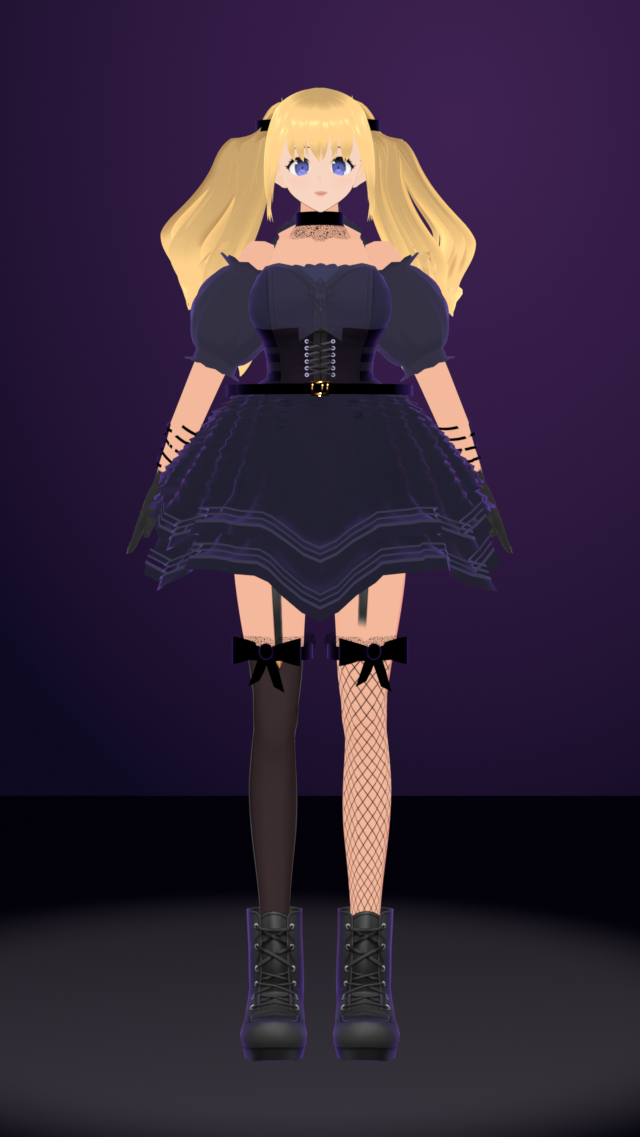
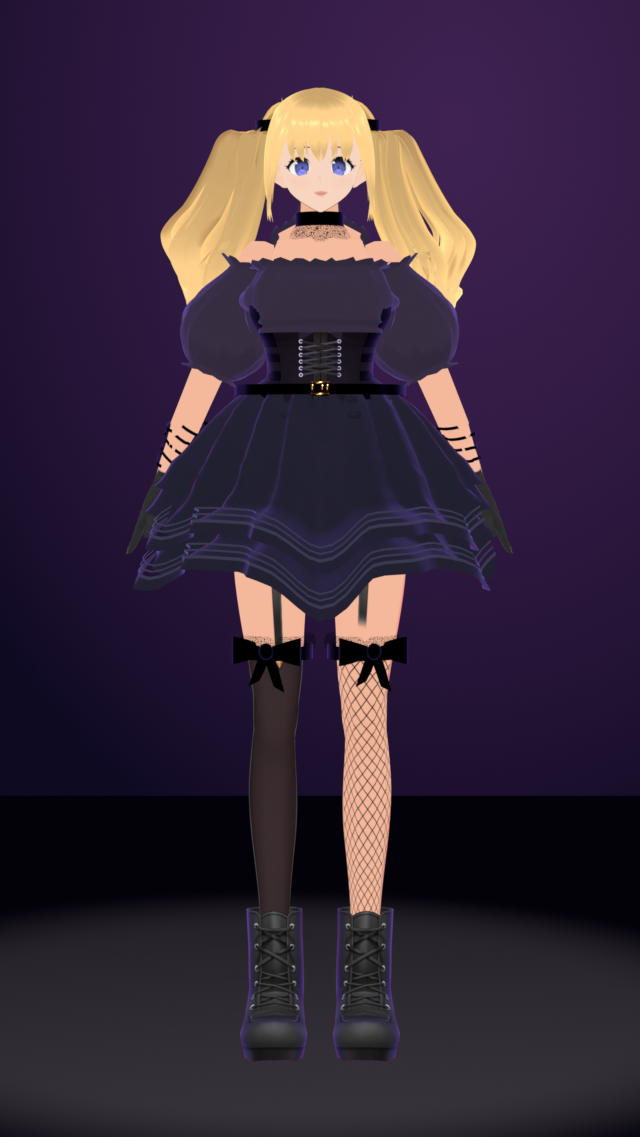
Goth agent: fitted gathered blouse, longer puff sleeves, rounded pleats
- A fitted blouse is built over the upper torso (per-height, per-angle max
  radius, so it bridges the bust), straight ruffled off-shoulder neckline;
  VRoid's corset sweetheart edge, busk and ornament no longer show. The
  leftover VRoid back panel is recoloured to the same navy.
- Sleeves run to just above the elbow, fullest two-thirds down.
- Tails rise out of the ties before falling.
- Skirt: 16 rounded pleats on a finer mesh; the old knife-pleat sawtooth
  showed as teeth, too few vertices aliased the folds, out-of-step layers
  crossed, and a stepped radius profile showed as horizontal ridges.
- Corset eyelets in two spaced columns.

Claude-Session: https://claude.ai/code/session_011M9r3rTGgXhm4baeKDbpr3

diff --git a/build/tools/blender-agent-refine.py b/build/tools/blender-agent-refine.py
@@ -21,28 +21,31 @@ p = argparse.ArgumentParser()
 p.add_argument('--blend', required=True); p.add_argument('--out', required=True)
 p.add_argument('--neckline', type=float, default=1.285)     # off-shoulder line on the torso (rest pose, m)
 p.add_argument('--sleeve-start', type=float, default=0.03)  # along the upper arm from the shoulder joint
-p.add_argument('--sleeve-end', type=float, default=0.20)
+p.add_argument('--sleeve-end', type=float, default=0.212)
 p.add_argument('--puff', type=float, default=0.80)        # (VRoid-sleeve mode only)
-p.add_argument('--puff-r', type=float, default=0.030)     # own sleeve: extra radius at the middle of the puff
+p.add_argument('--puff-r', type=float, default=0.040)     # own sleeve: extra radius at the middle of the puff
 p.add_argument('--vroid-sleeves', action='store_true')     # keep and puff VRoid's sleeve instead of building one
 p.add_argument('--underbust', type=float, default=1.2)      # corset above this height becomes a navy bodice (0 = keep)
 p.add_argument('--skirt-len', type=float, default=0.30)     # bottom tier, between the points
 p.add_argument('--skirt-points', type=float, default=0.22)  # handkerchief point depth (fraction)
 p.add_argument('--skirt-hem', type=float, default=0.30)
-p.add_argument('--pleats', type=int, default=26); p.add_argument('--pleat-depth', type=float, default=0.038)
+p.add_argument('--pleats', type=int, default=16); p.add_argument('--pleat-depth', type=float, default=0.038)
 p.add_argument('--cloth-toony', type=float, default=0.5)
 p.add_argument('--rim', type=float, default=0.55)          # strength of the built-in rim glow (0 = VRoid's)
 p.add_argument('--hair-shade', type=int, nargs=3, default=(150, 96, 44))   # sRGB shade colour for the hair   # VRoid cloth is 0.95 (hard cel); the reference is soft
 p.add_argument('--fishnet-cell', type=float, default=34); p.add_argument('--fishnet-width', type=float, default=3.2)   # texels at 2048
+p.add_argument('--blouse', type=int, default=1)            # fitted gathered blouse over the upper torso, straight neckline
+p.add_argument('--neckline-drop', type=float, default=0.034)   # neckline below the shoulder joints
 p.add_argument('--piping', type=int, nargs=3, default=(58, 57, 80))   # sRGB piping colour
 p.add_argument('--ruffle', type=float, default=0.022)     # hem frill depth under each skirt layer
-p.add_argument('--skirt-cuts', type=int, default=3); p.add_argument('--skirt-flare', type=float, default=0.8)     # bottom-tier hem radius
+p.add_argument('--skirt-cuts', type=int, default=5); p.add_argument('--skirt-flare', type=float, default=0.8)     # bottom-tier hem radius
 p.add_argument('--tail-len', type=float, default=0.38)      # tie to tip, metres (--tail-tip overrides)
 p.add_argument('--tail-tip', type=float, default=0.0)
 p.add_argument('--tail-root', type=float, default=0.0);   # 0 = measure (top of the tail strands - 4 cm)
 p.add_argument('--tail-spread', type=float, default=0.095)  # how far each tail arcs out from its tie
 p.add_argument('--tail-width', type=float, default=1.4)    # strand cross-section scale
-p.add_argument('--tail-flick', type=float, default=0.03)   # outward flick at the tips
+p.add_argument('--tail-flick', type=float, default=0.03)
+p.add_argument('--tail-lift', type=float, default=0.035)   # how far the tails rise out of the ties before falling   # outward flick at the tips
 p.add_argument('--tail-fan', type=int, default=1)          # add two copies per strand with other spreads/lengths
 p.add_argument('--bangs', type=float, default=1.10)         # fringe length factor, from its hairline
 p.add_argument('--sidelocks', type=float, default=1.9)      # length factor for the outer fringe pieces (face-framing locks)
@@ -203,7 +206,7 @@ if a.underbust:
     src = me.materials[min(CORSET)]; bod = src.copy(); bod.name = 'Bodice navy'
     img = lit_image(bod).copy(); img.name = 'Bodice flat'
     fpx = np.array(img.pixels[:], dtype=np.float32).reshape(-1, 4); h_, s_, v_ = rgb_to_hsv(fpx[:, :3])
-    v_ = v_ * 0.25 + 0.75 * v_[fpx[:, 3] > 0.5].mean(); fpx[:, :3] = hsv_to_rgb(h_, s_ * 0.3, v_); img.pixels[:] = fpx.ravel(); img.pack()
+    v_ = v_ * 0.08 + 0.92 * v_[fpx[:, 3] > 0.5].mean(); fpx[:, :3] = hsv_to_rgb(h_, s_ * 0.3, v_)   # soft blouse: drop the corset seams; img.pixels[:] = fpx.ravel(); img.pack()
     old_img = lit_image(src)
     for n_ in bod.node_tree.nodes:
         if n_.type == 'TEX_IMAGE' and n_.image == old_img: n_.image = img
@@ -215,7 +218,7 @@ if a.underbust:
     for f in bm.faces:
         if f.material_index in CORSET and f.calc_center_median().z > a.underbust: f.material_index = BOD_I; nb += 1
     print('BODICE', nb, 'faces navy above', a.underbust)
-    top_e = [e for e in bm.edges if e.is_boundary and e.link_faces and e.link_faces[0].material_index == BOD_I and min(v.co.z for v in e.verts) > 1.24 + DZ]
+    top_e = [] if a.blouse else [e for e in bm.edges if e.is_boundary and e.link_faces and e.link_faces[0].material_index == BOD_I and min(v.co.z for v in e.verts) > 1.24 + DZ]
     if top_e:
         ret = bmesh.ops.extrude_edge_only(bm, edges=top_e); nv = [g for g in ret['geom'] if isinstance(g, bmesh.types.BMVert)]
         for i, v in enumerate(sorted(nv, key=lambda v: v.co.x)):
@@ -313,14 +316,21 @@ def mid_texel(mat):
     y, x = np.unravel_index(np.argmin(lum), lum.shape); return ((x + 0.5) / W, (y + 0.5) / H)
 SLEEVE_MAT = me.materials[BOD_I] if a.underbust else me.materials[min(BLOUSE)]
 SLEEVE_UV = mid_texel(SLEEVE_MAT)
+if not a.vroid_sleeves and a.underbust:   # what is left of VRoid's blouse is its upper-back panel: make it the blouse navy
+    nbp = 0
+    for f in bm.faces:
+        if f.material_index in BLOUSE:
+            f.material_index = BOD_I; nbp += 1
+            for l in f.loops: l[uvl].uv = SLEEVE_UV
+    print('BACK PANEL', nbp, 'faces -> blouse navy')
 for side, tag, centre_at in OWN_SLEEVES:
     sb = bmesh.new(); s0, s1 = X0 + a.sleeve_start, X0 + a.sleeve_end; NS, MS = 40, 22; rows_ = []
     for j in range(MS + 1):
         u = j / MS; x = s0 + (s1 - s0) * u; cy2, cz2 = centre_at(x); row = []
-        bulge = math.sin(math.pi * min(1.0, u / 0.9)) ** 0.7
+        bulge = math.sin(math.pi * u ** 1.35) ** 0.8                       # fullest two-thirds down, like a gathered sleeve
         for i in range(NS):
             th = -math.pi + 2 * math.pi * i / NS
-            r = (0.042 if u < 0.9 else 0.039) + a.puff_r * bulge
+            r = 0.040 + a.puff_r * bulge
             r *= 1 + 0.06 * math.sin(14 * th + 0.4 * j) * bulge ** 0.5          # gathers
             row.append(sb.verts.new((side * x, cy2 + r * math.cos(th), cz2 + r * math.sin(th))))
         rows_.append(row)
@@ -384,8 +394,8 @@ for i in range(21):
     if prof[i] is None: prof[i] = prof[i - 1]
 r0 = prof[0]
 def pleat(th, phase):          # knife pleat: slow rise, sharp fold, in [-0.5, 0.5]
-    f = ((a.pleats * th + phase) / (2 * math.pi)) % 1.0
-    return (f / 0.72 if f < 0.72 else (1 - f) / 0.28) - 0.5
+    f = ((a.pleats * th + phase) / (2 * math.pi)) % 1.0     # rounded pleats: a sawtooth shows as teeth on the silhouette
+    return 0.5 * math.sin(2 * math.pi * f) + 0.12 * math.sin(4 * math.pi * f)
 def remap(verts, lenfac, roff, phase=0.0):
     for v in verts:
         s = (ztop - v.co.z) / (ztop - zbot); s = min(1, max(0, s))
@@ -394,7 +404,7 @@ def remap(verts, lenfac, roff, phase=0.0):
         depth = s * L * lenfac
         target = r0 + (a.skirt_hem - r0) * min(1.2, depth / a.skirt_len) ** a.skirt_flare + roff * s ** 0.6
         target += a.pleat_depth * (0.25 + 0.75 * s) * pleat(th, phase)
-        k = target / prof[min(20, int(20 * s))]
+        k = target / float(np.interp(s * 20, np.arange(21), prof))   # interpolated: a stepped profile shows as ridges once subdivided
         v.co.x *= k; v.co.y = cy + (v.co.y - cy) * k; v.co.z = ztop - depth
 tiers = [(sk_verts, 1.0, 0.0)]
 for lenfac, roff in ((0.80, 0.014),):
@@ -404,7 +414,7 @@ hems = []
 for vs, lenfac, roff in tiers:
     vset = set(vs); spre = {v: (ztop - v.co.z) / (ztop - zbot) for v in vs}
     hems.append([e for e in bm.edges if e.is_boundary and all(v in vset and spre[v] > 0.85 for v in e.verts)])
-for ti, (vs, lenfac, roff) in enumerate(tiers): remap(vs, lenfac, roff, phase=ti * 0.5)
+for ti, (vs, lenfac, roff) in enumerate(tiers): remap(vs, lenfac, roff, phase=0.0)   # pleats in step, so the outer layer nests over the inner
 # plain fabric: a flattened copy of the skirt texture (drops the buttons and panel seams)
 skm = me.materials[min(SKIRT)]; simg = lit_image(skm); fimg = simg.copy(); fimg.name = 'Skirt flat'
 fpx = np.array(fimg.pixels[:], dtype=np.float32).reshape(-1, 4); h_, s_, v_ = rgb_to_hsv(fpx[:, :3]); op = fpx[:, 3] > 0.5
@@ -468,6 +478,59 @@ print('TRIM faces', nt)
 print('SKIRT top %.3f bot %.3f r0 %.3f cy %.3f' % (ztop, zbot, r0, cy))
 bm.to_mesh(me); me.update()
 
+# soft blouse: a fitted tube over the upper torso from under the corset's top edge to a straight
+# off-shoulder neckline with a ruffle (the VRoid corset's sweetheart edge, busk and ornament show otherwise)
+if a.blouse and a.underbust:
+    zb0 = a.underbust; zn = AXZ - a.neckline_drop
+    keep = set().union(CORSET, BLOUSE, {BOD_I}, mats('Body_00_SKIN'))
+    src = sorted({i for p_ in me.polygons if p_.material_index in keep for i in p_.vertices
+                  if abs(me.vertices[i].co.x) < X0 - 0.005 and zb0 - 0.02 < me.vertices[i].co.z < zn + 0.02})
+    cyB = sum(me.vertices[i].co.y for i in src) / len(src)
+    NB, rows_z = 72, list(np.arange(zb0, zn + 1e-6, 0.006))
+    R = np.zeros((len(rows_z), NB))
+    for ri, zr in enumerate(rows_z):
+        pts = [me.vertices[i].co for i in src if abs(me.vertices[i].co.z - zr) < 0.012]
+        ang = np.array([math.atan2(q.y - cyB, q.x) for q in pts]); rad = np.array([math.hypot(q.x, q.y - cyB) for q in pts])
+        for k in range(NB):
+            th = -math.pi + 2 * math.pi * k / NB; dth = np.abs((ang - th + math.pi) % (2 * math.pi) - math.pi)
+            sel = rad[dth < 0.2]; R[ri, k] = sel.max() if len(sel) else np.nan
+        row = R[ri]; good = ~np.isnan(row)
+        R[ri] = np.interp(np.arange(NB), np.arange(NB)[good], row[good], period=NB) if good.any() else R[ri - 1]
+    for _ in range(2):   # smooth around and up
+        R = (np.roll(R, 1, 1) + 2 * R + np.roll(R, -1, 1)) / 4
+        R[1:-1] = (R[:-2] + 2 * R[1:-1] + R[2:]) / 4
+    bb2 = bmesh.new(); vrows = []
+    for ri, zr in enumerate(rows_z):
+        f_ = (zr - zb0) / max(1e-4, zn - zb0); vr = []
+        for k in range(NB):
+            th = -math.pi + 2 * math.pi * k / NB
+            r = R[ri, k] + (0.006 if zr > zb0 + 0.012 else 0.001) + 0.004 * math.sin(20 * th) * f_ ** 1.5   # gathers toward the top
+            vr.append(bb2.verts.new((r * math.cos(th), cyB + r * math.sin(th), zr)))
+        vrows.append(vr)
+    for ri in range(len(vrows) - 1):
+        for k in range(NB):
+            k2 = (k + 1) % NB; bb2.faces.new((vrows[ri][k], vrows[ri][k2], vrows[ri + 1][k2], vrows[ri + 1][k]))
+    top_edges = [e for e in bb2.edges if all(v in set(vrows[-1]) for v in e.verts)]
+    ret = bmesh.ops.extrude_edge_only(bb2, edges=top_edges)
+    for g in ret['geom']:
+        if isinstance(g, bmesh.types.BMVert):
+            th = math.atan2(g.co.y - cyB, g.co.x); out = Vector((math.cos(th), math.sin(th), 0))
+            g.co += (Vector((0, 0, 1)) * 0.6 + out * 0.8).normalized() * 0.022 * (1 + 0.25 * math.sin(26 * th)) + out * 0.004 * math.cos(26 * th)
+    for f in bb2.faces: f.smooth = True
+    bme = bpy.data.meshes.new('Blouse'); bb2.to_mesh(bme); bb2.free()
+    bob = bpy.data.objects.new('Blouse', bme); coll.objects.link(bob); bme.materials.append(me.materials[BOD_I])
+    lay = bme.uv_layers.new(name='UV')
+    for d in lay.data: d.uv = SLEEVE_UV
+    kdb = KDTree(len(src))
+    for n_, i in enumerate(src): kdb.insert(me.vertices[i].co, i)
+    kdb.balance()
+    for g in body.vertex_groups: bob.vertex_groups.new(name=g.name)
+    for v in bme.vertices:
+        co_, idx, dist = kdb.find(v.co)
+        for gr in me.vertices[idx].groups: bob.vertex_groups[gr.group].add([v.index], gr.weight, 'REPLACE')
+    bob.parent = arm; bob.modifiers.new('Armature', 'ARMATURE').object = arm
+    print('BLOUSE %d rows, z %.3f -> %.3f' % (len(rows_z), zb0, zn))
+
 # ------------------------------------------------------------------ 3. twin tails
 hb = bmesh.new(); hb.from_mesh(hair.data); hb.verts.ensure_lookup_table()
 seen = set(); tails = []; bangs = []; crown = []
@@ -509,7 +572,7 @@ def synth(comp, side, spread, lenf, dy, width):
         wave = a.tail_wave * math.sin(2 * math.pi * 1.2 * u) * u
         return (T.x + ox0 * (1 - 0.3 * u) + side * (out + flick + wave),
                 T.y + oy0 * (1 - 0.3 * u) + dy * min(1.0, u / 0.3) + 0.02 * u,
-                T.z - L * u)
+                T.z - L * u + a.tail_lift * math.sin(math.pi * min(1.0, u / 0.45)) * (1 - u))   # puff up out of the tie first
     for c in below:
         d = T.z - c.co.z; u = d / D; cx0, cy0 = cen_at(u)
         w_ = min(1.0, d / 0.04)                                 # blend in just below the tie
@@ -701,7 +764,7 @@ if cor_faces:
     def front(x, z):
         loc, nrm, fi, d = cbvh.ray_cast(Vector((x, -0.6, z)), Vector((0, 1, 0)))
         return (loc + Vector((0, -0.004, 0))) if loc else None
-    cols = {sgn: [front(sgn * 0.022, zc0 + (zc1 - zc0) * i / (n_ - 1)) for i in range(n_)] for sgn in (-1, 1)}
+    cols = {sgn: [front(sgn * 0.032, zc0 + (zc1 - zc0) * i / (n_ - 1)) for i in range(n_)] for sgn in (-1, 1)}
     if all(p_ is not None for sgn in cols for p_ in cols[sgn]):
         gb_ = bmesh.new()
         for sgn in cols:

diff --git a/design/blender/agent/README.md b/design/blender/agent/README.md
@@ -122,16 +122,22 @@ reference picture:
 
 - **Top**: VRoid's sleeve is removed (its front was erased in VRoid) and a
   gathered puff sleeve is built on each upper arm from the shoulder joint
-  to above the elbow, with frills on the off-shoulder line and the cuff,
+  to just above the elbow, fullest two-thirds of the way down, with frills on the off-shoulder line and the cuff,
   in the bodice's navy. `--vroid-sleeves` keeps and puffs VRoid's instead. VRoid removes the body under clothing at export, so the upper
   arm is rebuilt as a skin tube from over the shoulder to the forearm's open
   edge, weighted across the elbow. The blouse's back panel stays, because
   there is no skin under it either.
-- **Bodice**: the corset above the underbust line becomes navy cloth (its
-  texture flattened and recoloured), with a ruffle on its top edge, so the
-  black corset reads as an underbust piece over a navy dress.
-- **Skirt**: the bell skirt is subdivided and becomes two layers of knife
-  pleats flaring from the belt, with six handkerchief points, a gathered
+- **Blouse**: the corset above the underbust line becomes navy, and a
+  fitted gathered blouse is built over the upper torso: its shape is the
+  largest radius of the torso at each height and angle (so it bridges the
+  bust like cloth), from under the corset's top edge to a straight
+  off-shoulder neckline with a ruffle. What is left of VRoid's blouse, its
+  upper-back panel, is recoloured to the same navy. The black corset then
+  reads as an underbust piece over the blouse, with silver eyelets in two
+  columns and criss-cross lacing.
+- **Skirt**: the bell skirt is subdivided and becomes two layers of 16
+  rounded pleats flaring from the belt (a knife-pleat sawtooth shows as
+  teeth on the silhouette; layers in step so the outer nests), with six handkerchief points, a gathered
   frill under each hem and three rows of navy piping; its buttons and panel seams are flattened out of the
   texture and the white petticoat is dropped.
 - **Corset and belt**: silver grommets and a criss-cross lacing down the
@@ -146,8 +152,8 @@ reference picture:
 - **Hair**: each twin-tail strand is rebuilt along a new centre line from
   its gather point on the head top (measured per model): a smooth curve is
   fitted through the VRoid strand, then the strand is laid out 38 cm down
-  in an outward arc, its cross-section tapering to a point with a small
-  outward flick at the tip. Two copies of every strand with other spreads
+  in an outward arc that first rises out of the tie, its cross-section
+  tapering to a point with a small outward flick at the tip. Two copies of every strand with other spreads
   and lengths fill the bundle out and stagger the tips. (Squashing VRoid's
   long strands instead rolled their flared ends into round balls.) Black
   hair ties sit at the gather point; the hair is shifted to honey blonde
